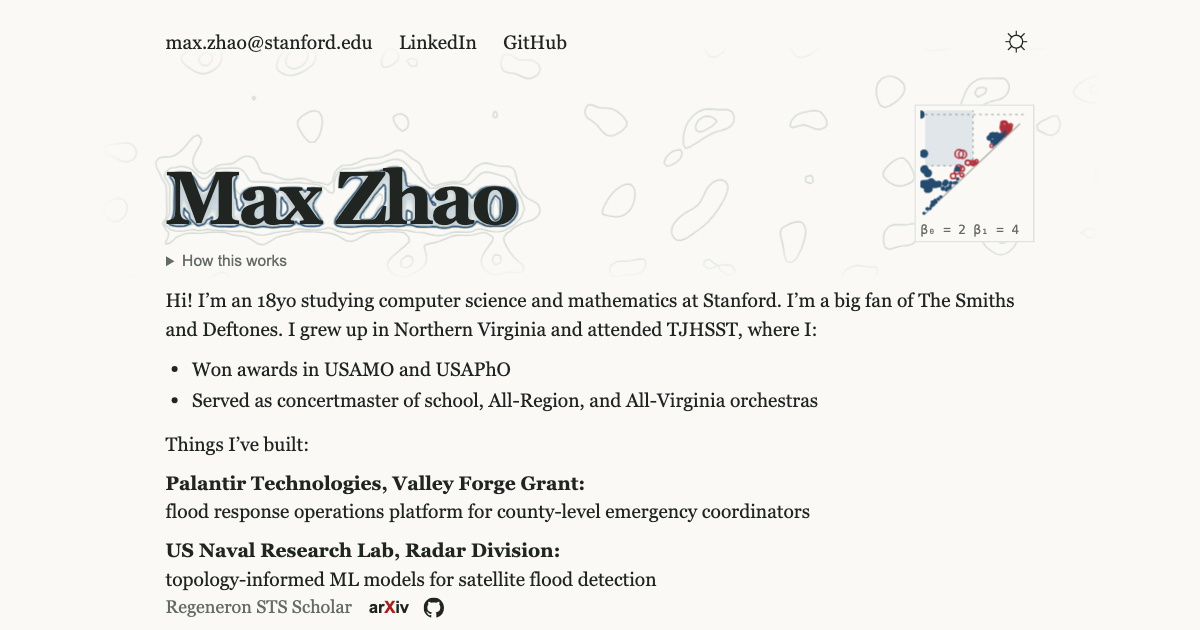
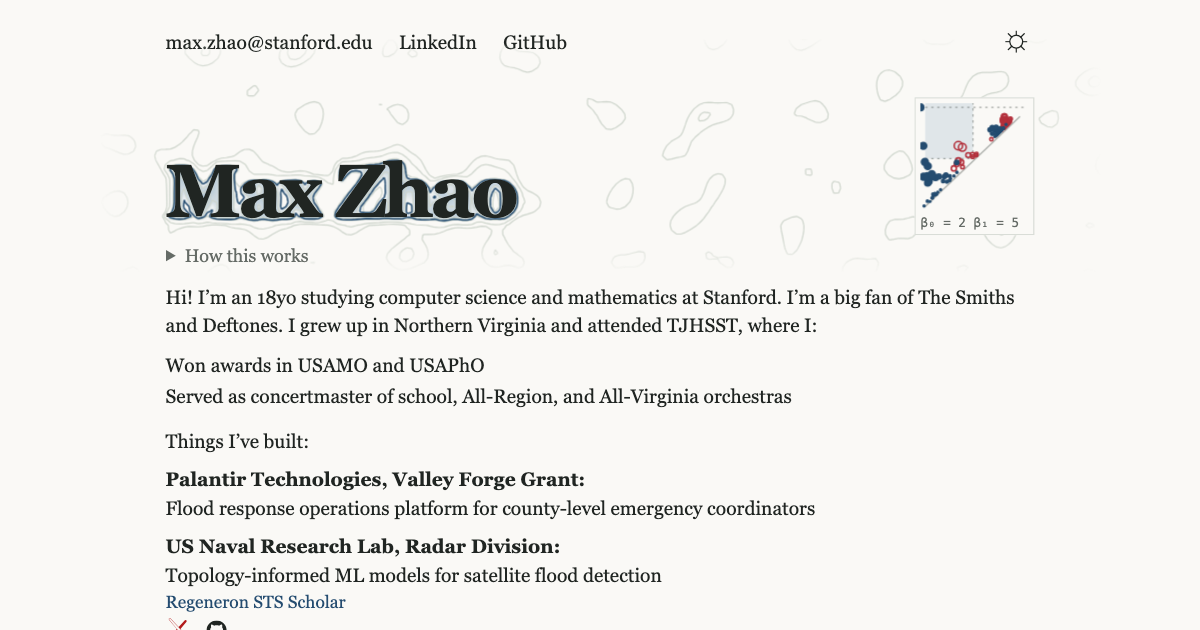
Restyle the home page list and links
Set the "How this works" toggle in the body serif, drop the bullets,
capitalize the project descriptions, and color the awards and journal
line in the accent color. The NRL paper now links through the arXiv
logomark (Simple Icons, CC0), and the arXiv and GitHub icons sit on
their own line under each project. Regenerate the link preview.

diff --git a/index.html b/index.html
@@ -88,36 +88,39 @@
     .flood-pd { position: relative; z-index: 1; flex: none; width: 112px; margin: 0; padding: 4px 4px 2px; background: var(--paper); border: 1px solid var(--line); }
     .flood-pd canvas { display: block; width: 100%; aspect-ratio: 1; }
     .flood-pd figcaption { padding-top: 2px; color: var(--muted); font: 10.5px/1.4 ui-monospace, SFMono-Regular, Menlo, Consolas, monospace; white-space: nowrap; }
-    .how { position: relative; z-index: 1; margin: 10px 0 18px; color: var(--muted); font: 13px/1.5 Arial, sans-serif; }
+    .how { position: relative; z-index: 1; margin: 10px 0 18px; color: var(--muted); font-size: 15px; line-height: 1.5; }
     .how summary { width: fit-content; cursor: pointer; }
     .how p { max-width: 640px; margin: 6px 0 0; }
-    .how i { font-family: Georgia, serif; }
     p { margin: 0 0 8px; }
-    ul { margin: 0 0 16px; padding-left: 22px; }
+    ul { list-style: none; margin: 0 0 16px; padding: 0; }
     li { padding: 2px 0; }
     .built { list-style: none; padding: 0; margin: 0; }
     .built li { padding: 0 0 10px; }
     .built .org { font-weight: 700; }
-    .built .note { display: flex; flex-wrap: wrap; align-items: center; gap: 2px 14px; color: var(--muted); font-size: 15.5px; }
+    .built .note { color: var(--accent); font-size: 15px; }
+    .built .note a { text-decoration-color: currentColor; }
+    .built .note a:hover { text-decoration-thickness: 2px; }
     .icon { display: inline-flex; color: var(--ink); }
     .icon svg { width: 17px; height: 17px; }
     .icon:hover { color: var(--accent); }
-    .icons { display: inline-flex; align-items: center; gap: 12px; }
-    .arxiv { font: 700 14px/1 Arial, sans-serif; letter-spacing: -.01em; text-decoration: none; color: var(--ink); }
-    .arxiv b { color: #b31b1b; }
-    :root[data-theme="dark"] .arxiv b { color: #f0908c; }
+    .icons { display: flex; align-items: center; gap: 12px; margin-top: 3px; }
+    .icon.arxiv { color: #b31b1b; }
+    .icon.arxiv svg { width: 22px; height: 22px; }
+    :root[data-theme="dark"] .icon.arxiv { color: #f0908c; }
+    .icon.arxiv:hover { opacity: .75; }
     /* short laptop screens: tighten so the page still fits without scrolling */
     @media (max-height: 760px) and (min-width: 601px) {
       body { font-size: 16px; line-height: 1.5; }
       header { padding-top: 20px; }
-      main { padding: 30px 0 16px; }
+      main { padding: 24px 0 14px; }
       h1 { font-size: 62px; }
       .flood-pd { width: 100px; }
       .how { margin: 6px 0 12px; }
       ul { margin-bottom: 12px; }
       li { padding: 1px 0; }
       .built li { padding-bottom: 8px; }
-      .built .note { font-size: 15px; }
+      .built .note { font-size: 14.5px; }
+      .icons { margin-top: 1px; }
     }
     @media (max-width: 600px) {
       body { font-size: 16.5px; }
@@ -169,24 +172,24 @@
     <ul class="built">
       <li>
         <div class="org">Palantir Technologies, Valley Forge Grant:</div>
-        <div>flood response operations platform for county-level emergency coordinators</div>
+        <div>Flood response operations platform for county-level emergency coordinators</div>
       </li>
       <li>
         <div class="org">US Naval Research Lab, Radar Division:</div>
-        <div>topology-informed ML models for satellite flood detection</div>
-        <div class="note">Regeneron STS Scholar
-          <span class="icons">
-            <a class="arxiv" href="https://arxiv.org/html/2606.26204v2" title="Paper on arXiv">ar<b>X</b>iv</a>
-            <a class="icon" href="https://github.com/mzhao1599/tda-sen12flood" aria-label="Code on GitHub" title="Code on GitHub"><svg viewBox="0 0 16 16" aria-hidden="true"><path fill="currentColor" d="M8 0C3.58 0 0 3.58 0 8c0 3.54 2.29 6.53 5.47 7.59.4.07.55-.17.55-.38 0-.19-.01-.82-.01-1.49-2.01.37-2.53-.49-2.69-.94-.09-.23-.48-.94-.82-1.13-.28-.15-.68-.52-.01-.53.63-.01 1.08.58 1.23.82.72 1.21 1.87.87 2.33.66.07-.52.28-.87.51-1.07-1.78-.2-3.64-.89-3.64-3.95 0-.87.31-1.59.82-2.15-.08-.2-.36-1.02.08-2.12 0 0 .67-.21 2.2.82.64-.18 1.32-.27 2-.27.68 0 1.36.09 2 .27 1.53-1.04 2.2-.82 2.2-.82.44 1.1.16 1.92.08 2.12.51.56.82 1.27.82 2.15 0 3.07-1.87 3.75-3.65 3.95.29.25.54.73.54 1.48 0 1.07-.01 1.93-.01 2.2 0 .21.15.46.55.38A8.013 8.013 0 0016 8c0-4.42-3.58-8-8-8z"/></svg></a>
-          </span>
+        <div>Topology-informed ML models for satellite flood detection</div>
+        <div class="note">Regeneron STS Scholar</div>
+        <div class="icons">
+          <a class="icon arxiv" href="https://arxiv.org/html/2606.26204v2" aria-label="Paper on arXiv" title="Paper on arXiv"><svg viewBox="0 0 24 24" aria-hidden="true"><path fill="currentColor" d="M3.8423 0a1.0037 1.0037 0 0 0-.922.6078c-.1536.3687-.0438.6275.2938 1.1113l6.9185 8.3597-1.0223 1.1058a1.0393 1.0393 0 0 0 .003 1.4229l1.2292 1.3135-5.4391 6.4444c-.2803.299-.4538.823-.2971 1.1986a1.0253 1.0253 0 0 0 .9585.635.9133.9133 0 0 0 .6891-.3405l5.783-6.126 7.4902 8.0051a.8527.8527 0 0 0 .6835.2597.9575.9575 0 0 0 .8777-.6138c.1577-.377-.017-.7502-.306-1.1407l-7.0518-8.3418 1.0632-1.13a.9626.9626 0 0 0 .0089-1.3165L4.6336.4639s-.3733-.4535-.768-.463zm0 .272h.0166c.2179.0052.4874.2715.5644.3639l.005.006.0052.0055 10.169 10.9905a.6915.6915 0 0 1-.0072.945l-1.0666 1.133-1.4982-1.7724-8.5994-10.39c-.3286-.472-.352-.6183-.2592-.841a.7307.7307 0 0 1 .6704-.4401Zm14.341 1.5701a.877.877 0 0 0-.6554.2418l-5.6962 6.1584 1.6944 1.8319 5.3089-6.5138c.3251-.4335.479-.6603.3247-1.0292a1.1205 1.1205 0 0 0-.9763-.689zm-7.6557 12.2823 1.3186 1.4135-5.7864 6.1295a.6494.6494 0 0 1-.4959.26.7516.7516 0 0 1-.706-.4669c-.1119-.2682.0359-.6864.2442-.9083l.0051-.0055.0047-.0055z"/></svg></a>
+          <a class="icon" href="https://github.com/mzhao1599/tda-sen12flood" aria-label="Code on GitHub" title="Code on GitHub"><svg viewBox="0 0 16 16" aria-hidden="true"><path fill="currentColor" d="M8 0C3.58 0 0 3.58 0 8c0 3.54 2.29 6.53 5.47 7.59.4.07.55-.17.55-.38 0-.19-.01-.82-.01-1.49-2.01.37-2.53-.49-2.69-.94-.09-.23-.48-.94-.82-1.13-.28-.15-.68-.52-.01-.53.63-.01 1.08.58 1.23.82.72 1.21 1.87.87 2.33.66.07-.52.28-.87.51-1.07-1.78-.2-3.64-.89-3.64-3.95 0-.87.31-1.59.82-2.15-.08-.2-.36-1.02.08-2.12 0 0 .67-.21 2.2.82.64-.18 1.32-.27 2-.27.68 0 1.36.09 2 .27 1.53-1.04 2.2-.82 2.2-.82.44 1.1.16 1.92.08 2.12.51.56.82 1.27.82 2.15 0 3.07-1.87 3.75-3.65 3.95.29.25.54.73.54 1.48 0 1.07-.01 1.93-.01 2.2 0 .21.15.46.55.38A8.013 8.013 0 0016 8c0-4.42-3.58-8-8-8z"/></svg></a>
         </div>
       </li>
       <li>
         <div class="org">George Mason University, Algorithms Lab:</div>
-        <div>quantum-inspired algorithm for combinatorial optimization</div>
+        <div>Quantum-inspired algorithm for combinatorial optimization</div>
         <div class="note">S.T. Yau Science Award USA Gold Prize in Physics</div>
-        <div class="note"><a href="https://reference-global.com/article/10.2478/qic-2025-0023?tab=article">Quantum Information and Computation, Vol. 25, Issue 5 (2025)</a>
-          <span class="icons"><a class="icon" href="https://github.com/mzhao1599/qudoku" aria-label="Code on GitHub" title="Code on GitHub"><svg viewBox="0 0 16 16" aria-hidden="true"><path fill="currentColor" d="M8 0C3.58 0 0 3.58 0 8c0 3.54 2.29 6.53 5.47 7.59.4.07.55-.17.55-.38 0-.19-.01-.82-.01-1.49-2.01.37-2.53-.49-2.69-.94-.09-.23-.48-.94-.82-1.13-.28-.15-.68-.52-.01-.53.63-.01 1.08.58 1.23.82.72 1.21 1.87.87 2.33.66.07-.52.28-.87.51-1.07-1.78-.2-3.64-.89-3.64-3.95 0-.87.31-1.59.82-2.15-.08-.2-.36-1.02.08-2.12 0 0 .67-.21 2.2.82.64-.18 1.32-.27 2-.27.68 0 1.36.09 2 .27 1.53-1.04 2.2-.82 2.2-.82.44 1.1.16 1.92.08 2.12.51.56.82 1.27.82 2.15 0 3.07-1.87 3.75-3.65 3.95.29.25.54.73.54 1.48 0 1.07-.01 1.93-.01 2.2 0 .21.15.46.55.38A8.013 8.013 0 0016 8c0-4.42-3.58-8-8-8z"/></svg></a></span>
+        <div class="note"><a href="https://reference-global.com/article/10.2478/qic-2025-0023?tab=article">Quantum Information and Computation, Vol. 25, Issue 5 (2025)</a></div>
+        <div class="icons">
+          <a class="icon" href="https://github.com/mzhao1599/qudoku" aria-label="Code on GitHub" title="Code on GitHub"><svg viewBox="0 0 16 16" aria-hidden="true"><path fill="currentColor" d="M8 0C3.58 0 0 3.58 0 8c0 3.54 2.29 6.53 5.47 7.59.4.07.55-.17.55-.38 0-.19-.01-.82-.01-1.49-2.01.37-2.53-.49-2.69-.94-.09-.23-.48-.94-.82-1.13-.28-.15-.68-.52-.01-.53.63-.01 1.08.58 1.23.82.72 1.21 1.87.87 2.33.66.07-.52.28-.87.51-1.07-1.78-.2-3.64-.89-3.64-3.95 0-.87.31-1.59.82-2.15-.08-.2-.36-1.02.08-2.12 0 0 .67-.21 2.2.82.64-.18 1.32-.27 2-.27.68 0 1.36.09 2 .27 1.53-1.04 2.2-.82 2.2-.82.44 1.1.16 1.92.08 2.12.51.56.82 1.27.82 2.15 0 3.07-1.87 3.75-3.65 3.95.29.25.54.73.54 1.48 0 1.07-.01 1.93-.01 2.2 0 .21.15.46.55.38A8.013 8.013 0 0016 8c0-4.42-3.58-8-8-8z"/></svg></a>
         </div>
       </li>
     </ul>
